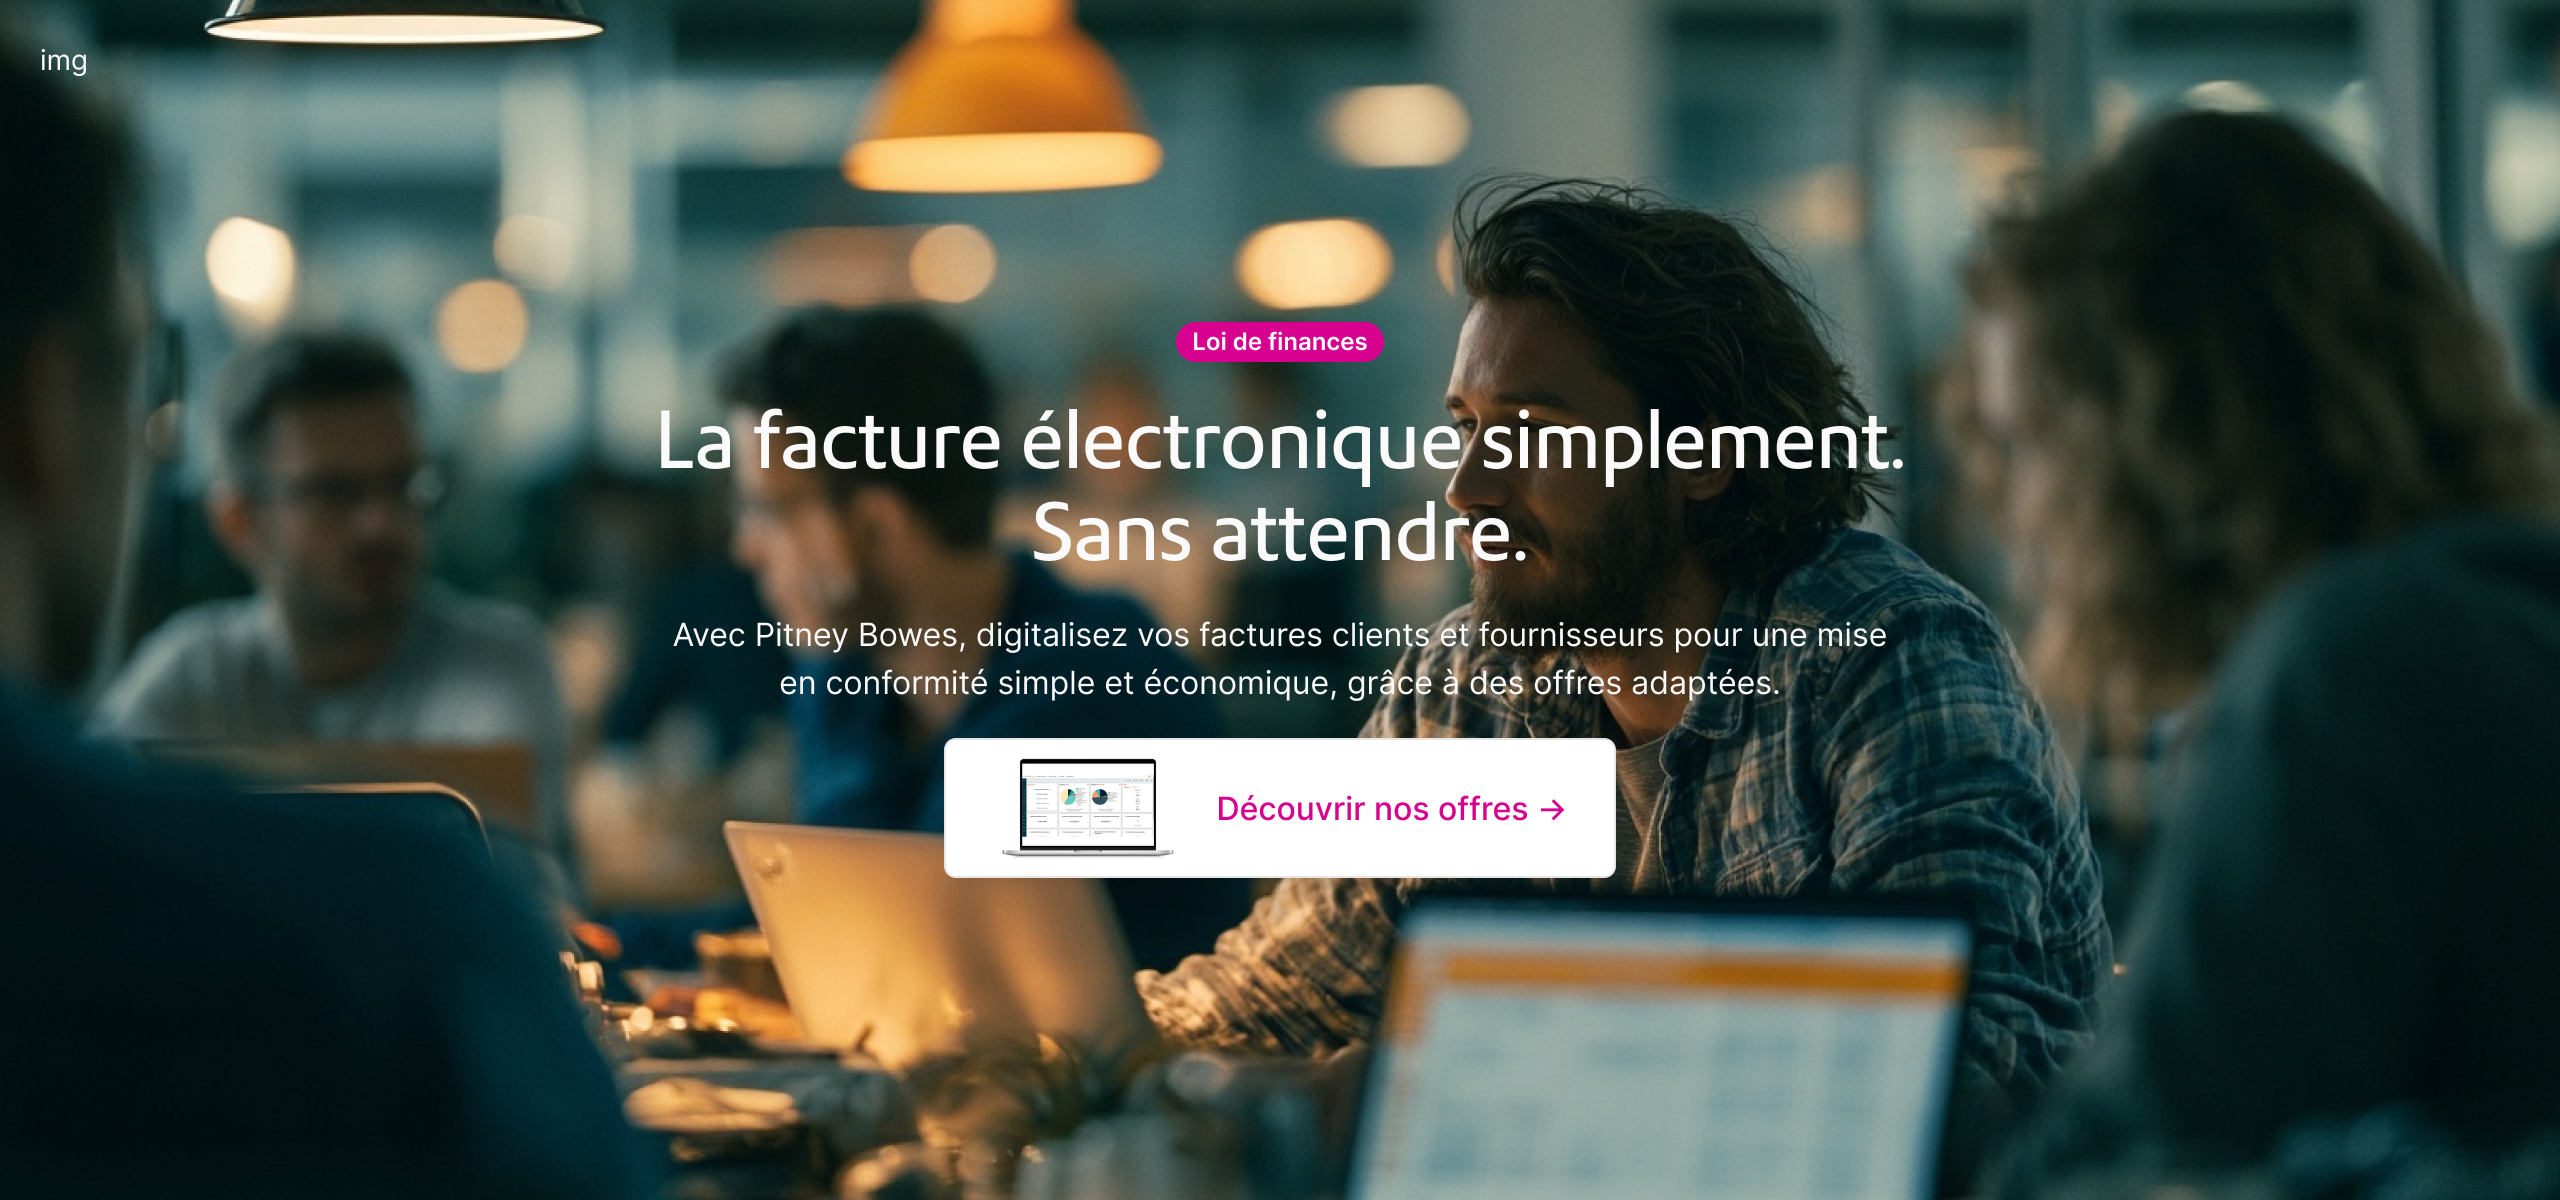
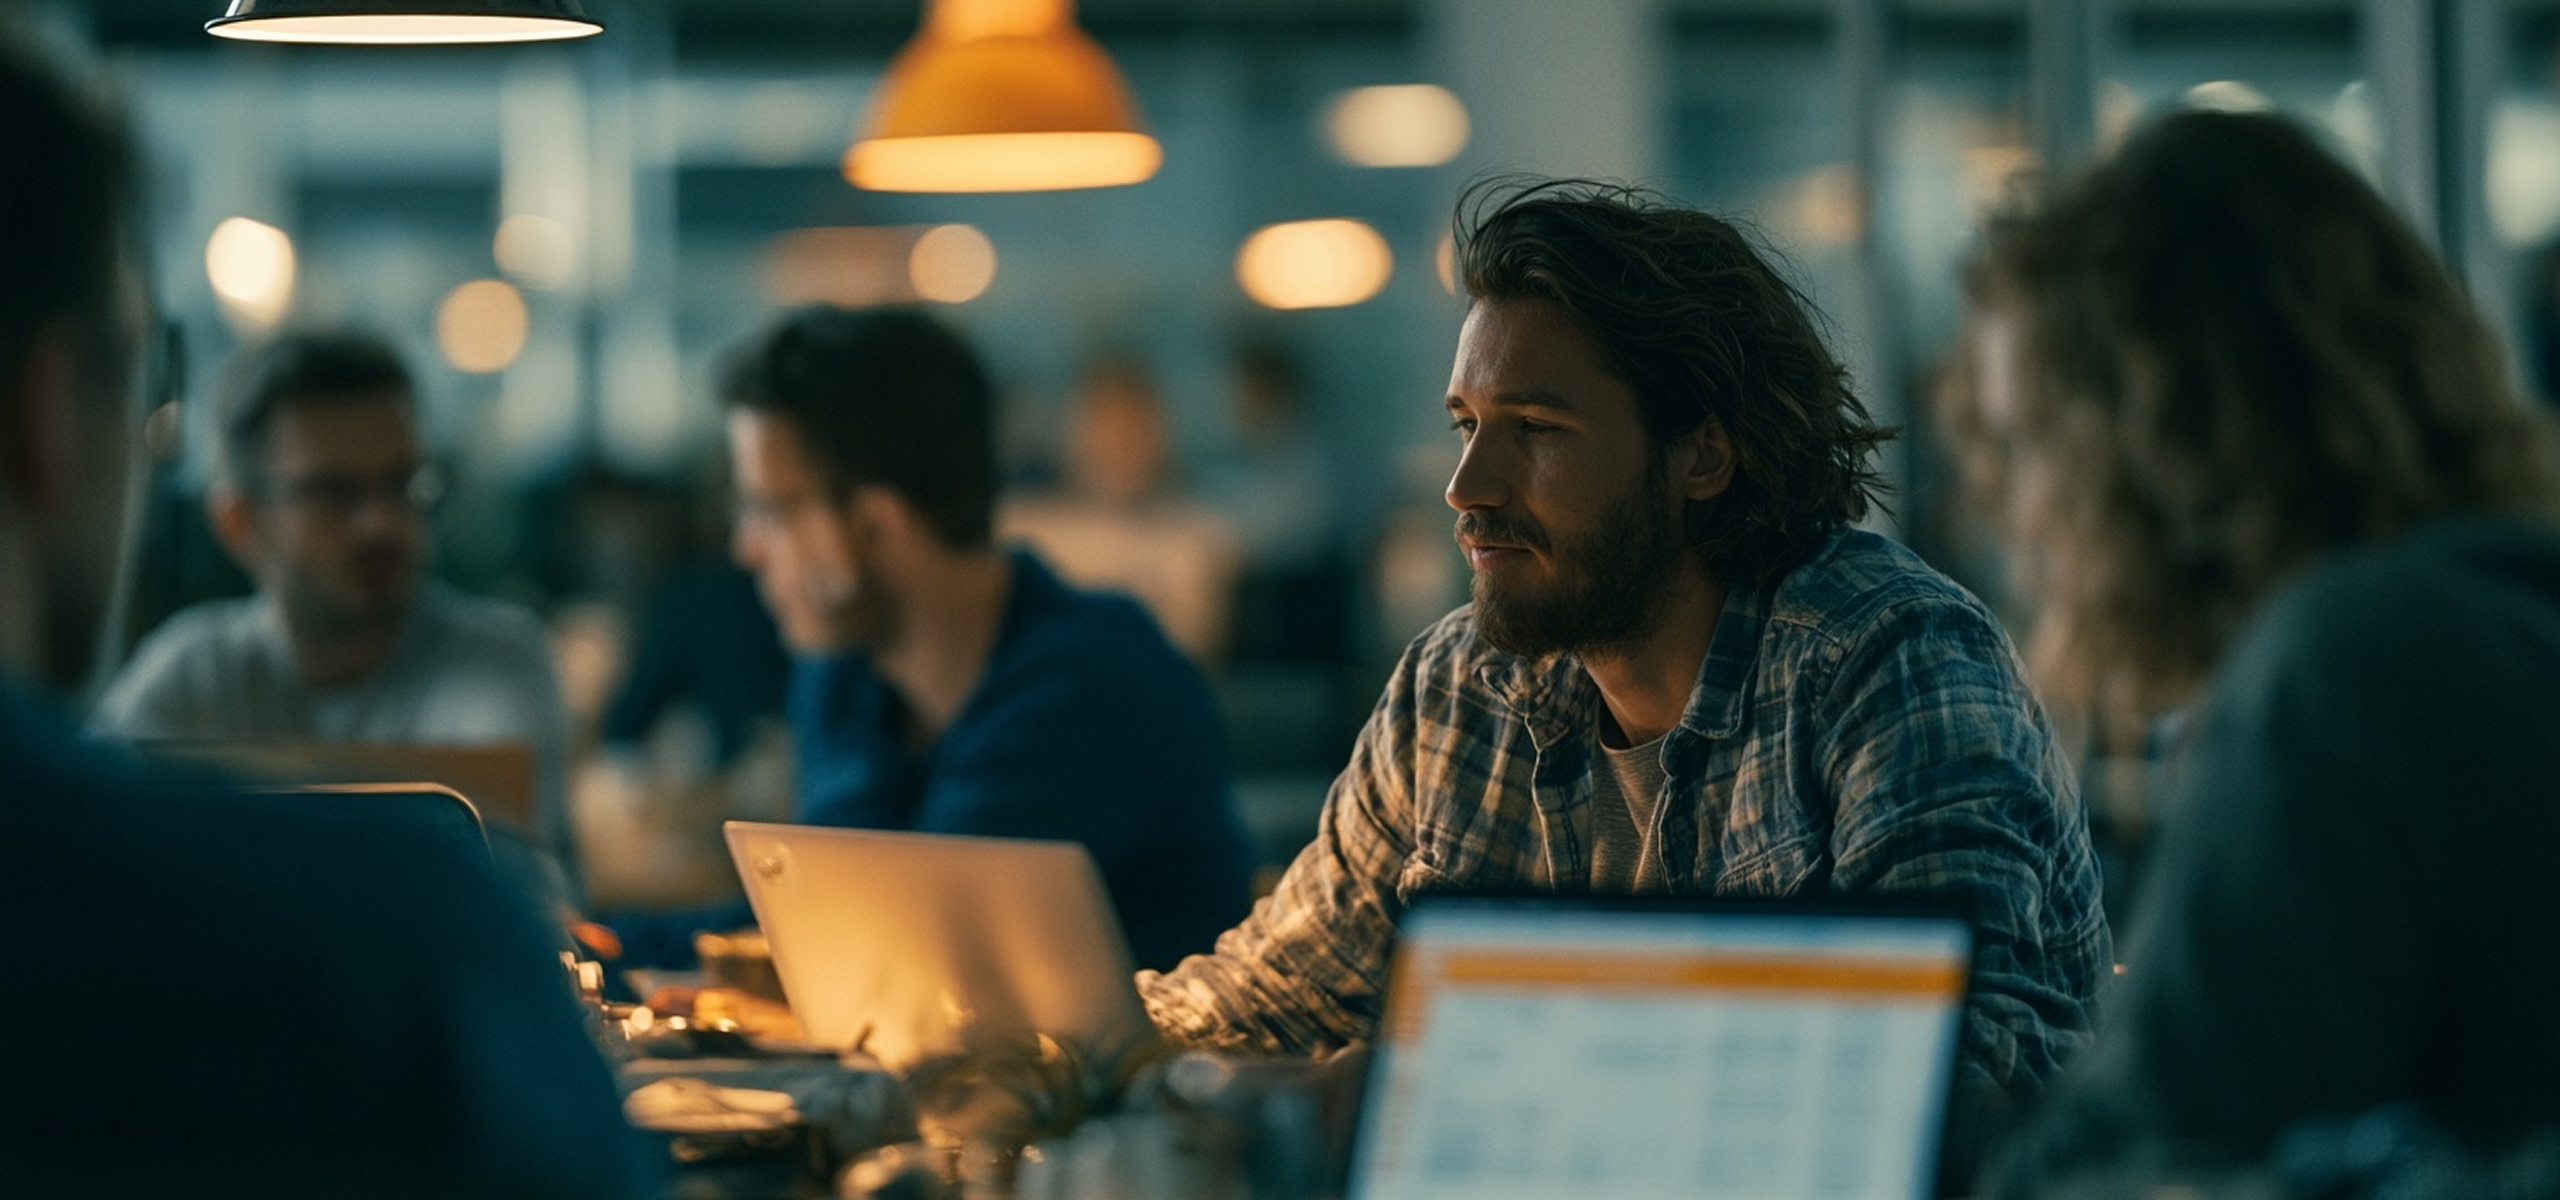
feat(pbis): hero cta with laptop image

diff --git a/app/routes/pbis._index.tsx b/app/routes/pbis._index.tsx
@@ -29,6 +29,11 @@ export default function PbisIndex() {
           href="#offres"
           className="inline-flex items-center gap-4 bg-white border border-neutral-200 rounded-md px-6 py-2 shadow-xl hover:shadow-2xl transition-shadow"
         >
+          <img
+            src="/images/pbis-cta-laptop.jpg"
+            alt=""
+            className="w-24 h-[54px] object-cover"
+          />
           <span className="text-[#d7008f] font-medium">Découvrir nos offres →</span>
         </a>
       </div>
